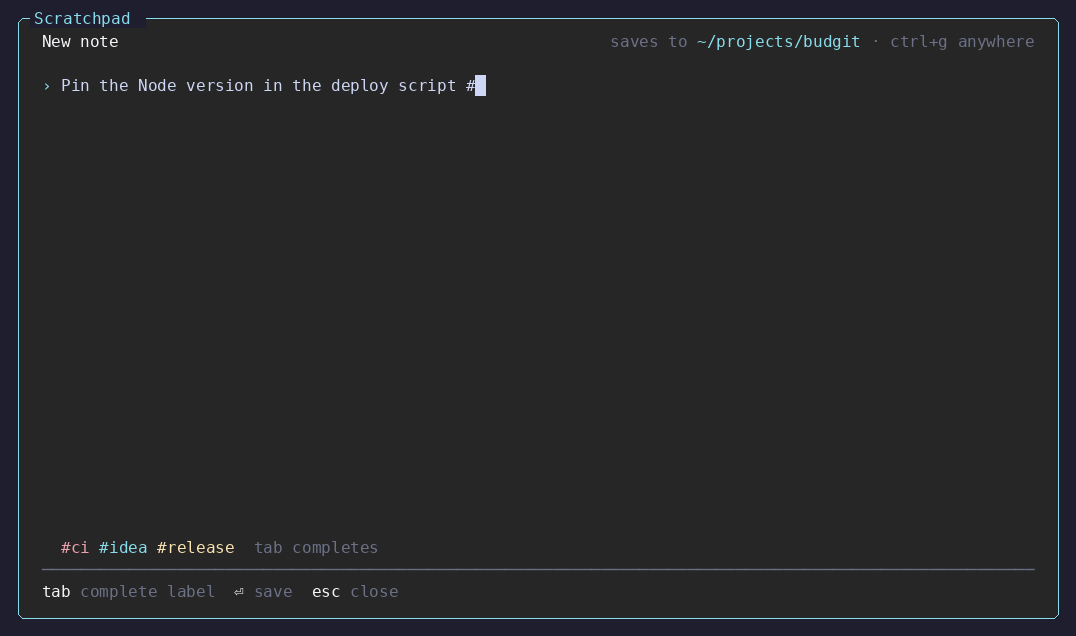
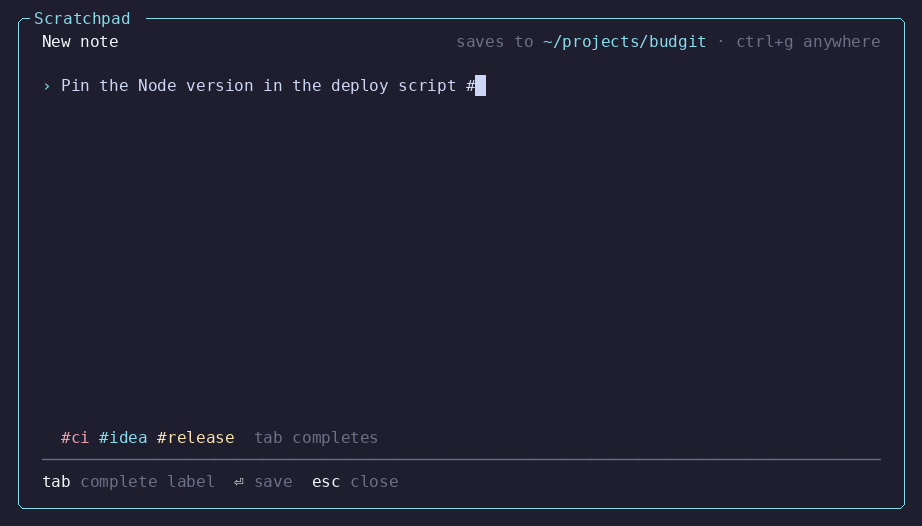
Match Quick Prompt's background and size
The popup no longer paints its own gray background, so it shows Herdr's
theme as Quick Prompt does. Both popups are now 92x23, halfway between
the old sizes.

At that width the notes hints do not all fit, so they are listed most
useful first and the ones that do not fit are left off, instead of the
line being cut mid-word. The screenshots are redrawn.

Changed region(s): [[0.0, 0.0, 1.0, 0.9734], [0.0607, 0.1217, 0.5466, 0.1825]]

diff --git a/scratchpad/bin/popup.js b/scratchpad/bin/popup.js
@@ -119,9 +119,18 @@ function suggestions() {
 
 const DOT = ` ${style.dim("·")} `;
 
-// "key label" pairs, the key bright so the eye finds it first.
-function keys(pairs) {
-  return pairs.filter(Boolean).map(([key, label]) => `${style.bright(key)} ${style.dim(label)}`).join("  ");
+// "key label" pairs, the key bright so the eye finds it first. Pairs come
+// most useful first, and those that do not fit in `width` are left off.
+function keys(pairs, width = Infinity) {
+  const shown = [];
+  let used = 0;
+  for (const [key, label] of pairs.filter(Boolean)) {
+    const size = displayWidth(`${key} ${label}`) + (shown.length ? 2 : 0);
+    if (used + size > width) break;
+    shown.push(`${style.bright(key)} ${style.dim(label)}`);
+    used += size;
+  }
+  return shown.join("  ");
 }
 
 function spread(left, right, width) {
@@ -260,7 +269,7 @@ function emptyLines() {
   ];
 }
 
-function notesHints() {
+function notesHints(width) {
   if (state.notice) return style.warn(state.notice);
   if (state.confirmDelete) return style.warn(`ctrl+d again deletes ${plural(targets().length, "note")} · any other key keeps them`);
   if (!current()) return keys([["tab", "write"], ["← →", "folders"], ["esc", "close"]]);
@@ -268,13 +277,13 @@ function notesHints() {
   return keys([
     ["tab", "write"],
     ["⏎", "edit"],
-    ["space", "tick"],
     ["ctrl+n", "agent"],
-    ["ctrl+w", "when"],
-    ["ctrl+x", current().done ? "reopen" : "done"],
-    ["ctrl+d", "delete"],
     src.session && RESUME_ARGS[src.agent] && ["ctrl+o", "session"],
-  ]);
+    ["ctrl+x", current().done ? "reopen" : "done"],
+    ["ctrl+w", "when"],
+    ["ctrl+d", "delete"],
+    ["space", "tick"],
+  ], width);
 }
 
 function notesBody(width, rows) {
@@ -282,7 +291,7 @@ function notesBody(width, rows) {
   lines[0] = tabRow(width);
   lines[1] = style.dim("─".repeat(width));
   lines[rows - 2] = style.dim("─".repeat(width));
-  lines[rows - 1] = notesHints();
+  lines[rows - 1] = notesHints(width);
   const top = 2;
   const height = rows - top - 2;
 

diff --git a/scratchpad/lib/term.js b/scratchpad/lib/term.js
@@ -21,10 +21,6 @@ const GUTTER = 1;
 // terminals that do not send them.
 const BURST_BYTES = 6;
 const ESC = 0x1b;
-// Herdr shows the pane behind a popup through cells left at the default
-// background, spaces included, so every cell gets a real one. Each colour
-// reset would drop it, so it is put back after every reset.
-const BACKGROUND = process.env.NO_COLOR ? "" : `\x1b[48;5;${process.env.SCRATCHPAD_BG ?? "235"}m`;
 
 function context() {
   try {
@@ -41,16 +37,13 @@ function start({ name, body, onKey, onPaste, onEscape }) {
   const width = () => Math.max(30, (out.columns ?? 76) - GUTTER * 2);
   const height = () => Math.max(6, out.rows ?? 12);
 
-  // Every cell has to be written: cells this never paints show the panes
-  // behind the popup.
   function render() {
     const inner = width();
     const rows = height();
     const view = body(inner, rows);
     const painted = [];
     for (let row = 0; row < rows; row += 1) {
-      const line = " ".repeat(GUTTER) + pad(truncate(view.lines[row] ?? "", inner), inner) + " ".repeat(GUTTER);
-      painted.push(BACKGROUND ? `${BACKGROUND}${line.replaceAll("\x1b[0m", `\x1b[0m${BACKGROUND}`)}\x1b[0m` : line);
+      painted.push(" ".repeat(GUTTER) + pad(truncate(view.lines[row] ?? "", inner), inner) + " ".repeat(GUTTER));
     }
     out.write(`\x1b[2J\x1b[H${painted.join("\r\n")}`);
     if (view.caret) out.write(`\x1b[${view.caret.row + 1};${GUTTER + view.caret.col + 1}H\x1b[?25h`);

diff --git a/scratchpad/tools/screenshot.py b/scratchpad/tools/screenshot.py
@@ -31,12 +31,12 @@ FONT = "/usr/share/fonts/truetype/dejavu/DejaVuSansMono.ttf"
 FONT_SIZE = 16
 PAD = 14
 MARGIN = 18
-# What Herdr hands the process for a 108x28 popup: the frame takes the rest.
-COLS, ROWS = 105, 26
+# What Herdr hands the process for a 92x23 popup: the frame takes the rest.
+COLS, ROWS = 89, 21
 
-# Catppuccin Mocha, Herdr's default theme, plus the popup's own background.
+# Catppuccin Mocha, Herdr's default theme.
 BASE = "#1e1e2e"
-POPUP = "#262626"
+POPUP = BASE  # the popup leaves the background to Herdr
 TEXT = "#cdd6f4"
 BRIGHT = "#f5f6fa"
 DIM = "#6c7086"
